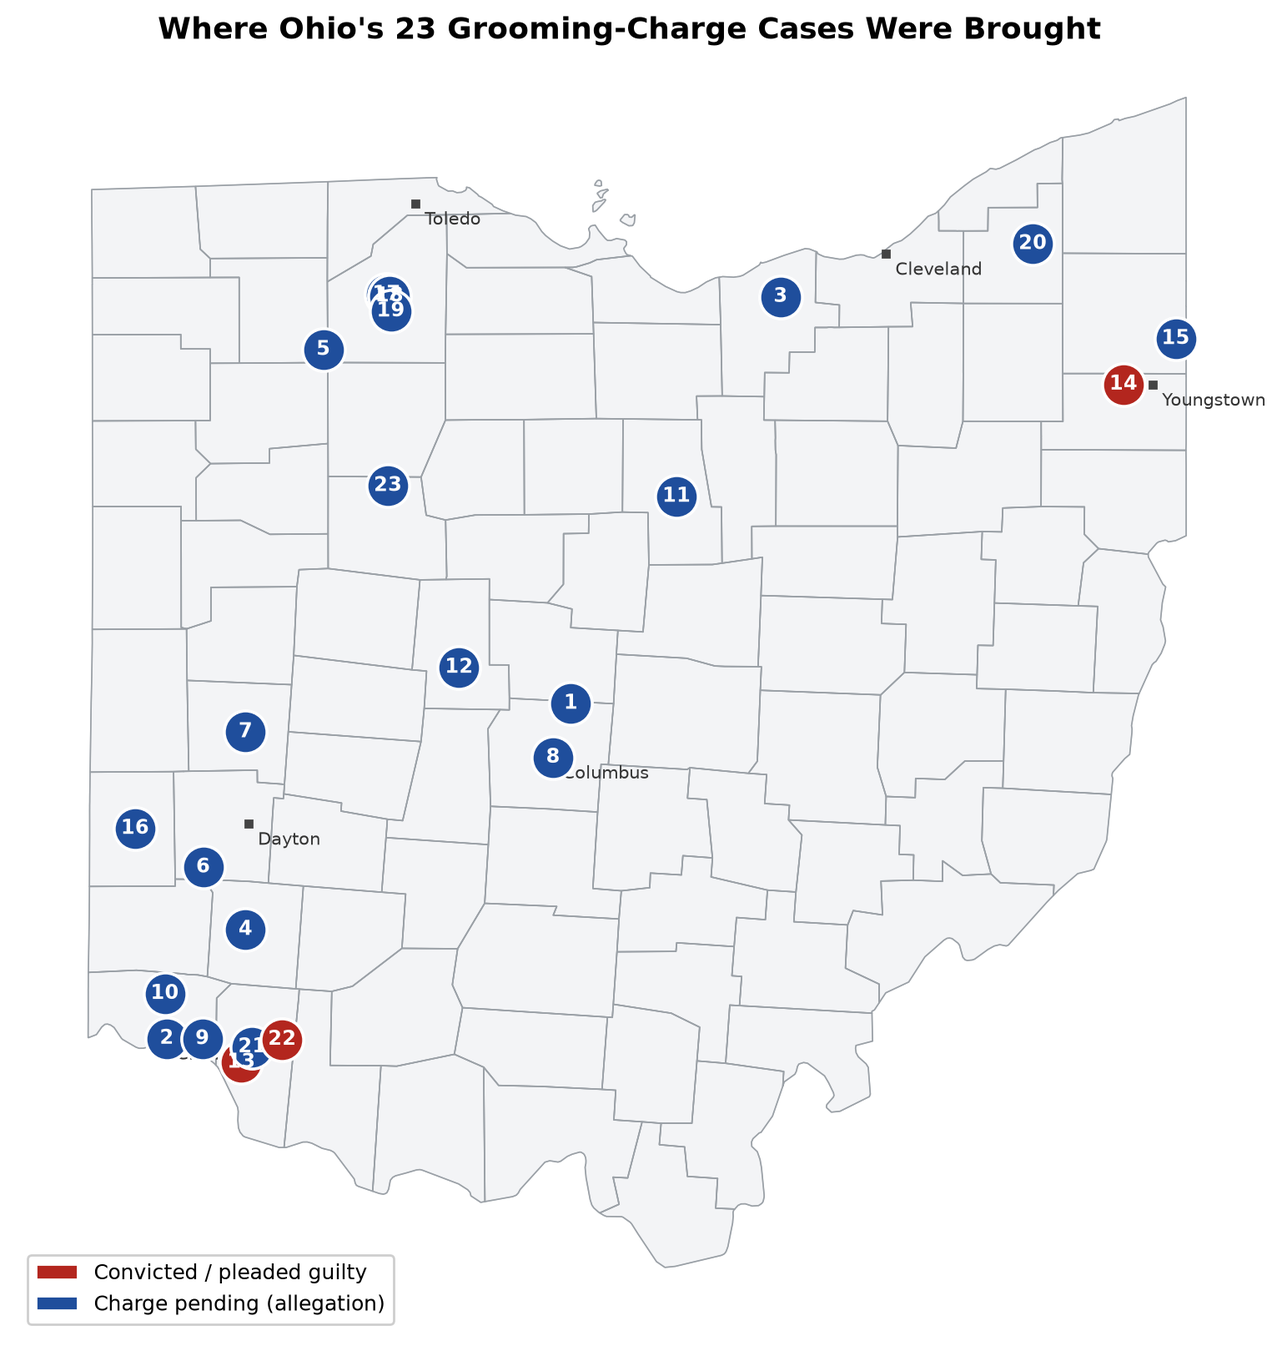
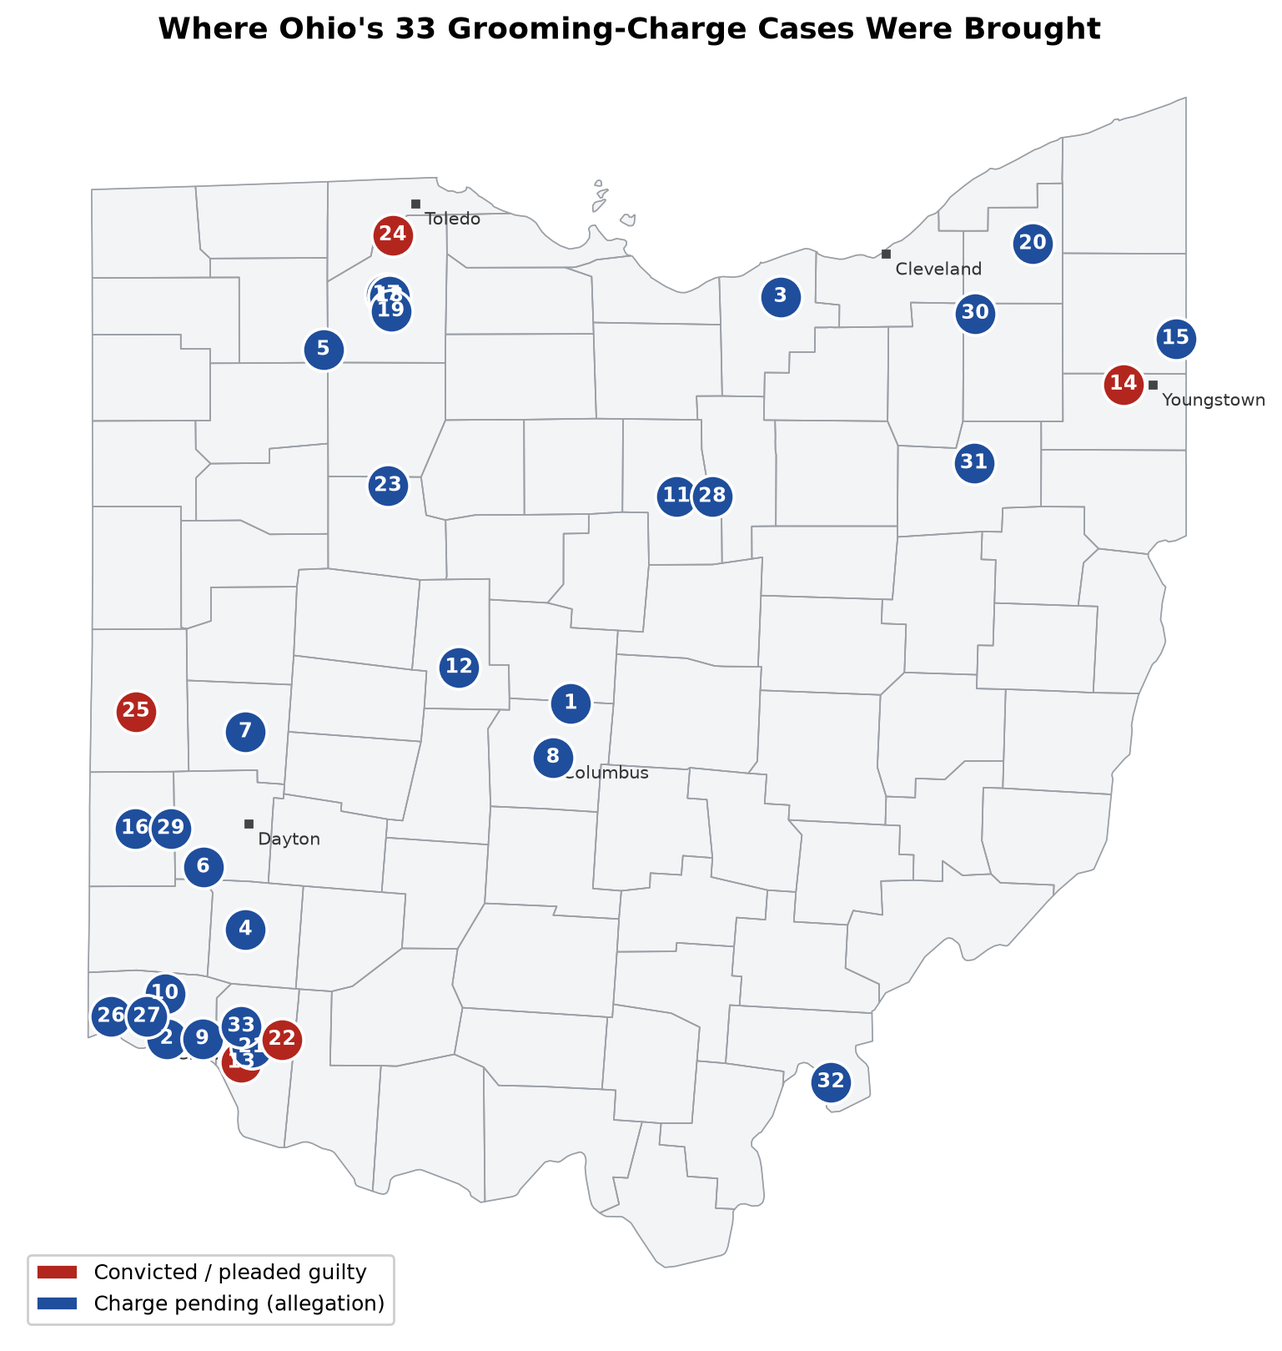
grooming: 10 verified cases from the first sweep (33 total); companion-charge stats data-driven
Abke (Wood, convicted 17-21 yrs), Shuttleworth (Darke, pleaded guilty), Michael and
Amanda Rowland (Hamilton), McCoy (Richland), Kimball (Preble, grooming-only, plea
to attempt), Moreno (Portage), Carlton (Stark), Hair (Meigs), Adams Jr. (Hamilton,
Jul 2025, second-earliest). Each row's source quotes the grooming count.

diff --git a/docs/grooming/index.html b/docs/grooming/index.html
@@ -8,8 +8,8 @@
 <meta name="description" content="Every Ohioan criminally charged under Ohio's new grooming law, ORC 2907.071, with a source on every case. Updated automatically.">
 <meta property="og:type" content="website">
 <meta property="og:url" content="https://chrisgraham.com/grooming">
-<meta property="og:title" content="Charged With Grooming in Ohio: 23 cases, every one sourced">
-<meta property="og:description" content="A running public record of every person charged under Ohio's grooming statute, ORC 2907.071. In all 23 cases the grooming count sits beside other child-abuse charges.">
+<meta property="og:title" content="Charged With Grooming in Ohio: 33 cases, every one sourced">
+<meta property="og:description" content="A running public record of every person charged under Ohio's grooming statute, ORC 2907.071. In 32 of 33 cases the grooming count sits beside other child-abuse charges.">
 <meta property="og:image" content="https://chrisgraham.com/grooming/img/ohio_map.png">
 <meta name="twitter:card" content="summary_large_image">
 <link rel="preconnect" href="https://fonts.googleapis.com">
@@ -78,35 +78,35 @@ td.n { text-align:right; white-space:nowrap; }
   <h1>Charged With Grooming in Ohio</h1>
   <p class="lede">Every Ohioan criminally charged under Ohio's new grooming law, <a href="https://codes.ohio.gov/ohio-revised-code/section-2907.071" rel="noopener">ORC 2907.071</a>, with a source on every case. Ohio made grooming its own crime with <a href="https://www.legislature.ohio.gov/legislation/135/hb322" rel="noopener">House Bill 322</a>, signed January 8, 2025 and in force April 9, 2025. Before that date nobody could be charged with grooming by name, so this page counts only people carrying the actual charge.</p>
   <div class="tiles">
-    <div class="tile"><p class="n">23</p><p class="l">Charged with grooming</p></div>
-    <div class="tile"><p class="n">4</p><p class="l">Convicted or pleaded</p></div>
-    <div class="tile"><p class="n">23 of 23</p><p class="l">Also face other child-abuse charges</p></div>
-    <div class="tile"><p class="n">19</p><p class="l">Open cases, presumed innocent</p></div>
+    <div class="tile"><p class="n">33</p><p class="l">Charged with grooming</p></div>
+    <div class="tile"><p class="n">7</p><p class="l">Convicted or pleaded</p></div>
+    <div class="tile"><p class="n">32 of 33</p><p class="l">Also face other child-abuse charges</p></div>
+    <div class="tile"><p class="n">26</p><p class="l">Open cases, presumed innocent</p></div>
   </div>
-  <p class="stamp">Page built 2026-10-10 15:10 UTC. Last news sweep 2026-10-10 15:08 UTC. The crawler runs every six hours. Count as of the latest confirmed case.</p>
+  <p class="stamp">Page built 2026-10-10 15:20 UTC. Last news sweep 2026-10-10 15:19 UTC. The crawler runs every six hours. Count as of the latest confirmed case.</p>
 </section>
 
 <section class="wrap" id="bigger-win">
-  <h2>Grooming has not stood alone once</h2>
-  <p>In all 23 cases the grooming count sits beside other child-abuse charges. The grooming statute is working as a door: the pattern-of-conduct charge gets investigators into a case that then surfaces the abuse itself. Grooming convictions matter. A grooming charge that delivers rape, sexual battery, or abuse-material convictions matters more, and that is the pattern so far.</p>
+  <h2>Grooming has stood alone only once</h2>
+  <p>In 32 of 33 cases the grooming count sits beside other child-abuse charges. The grooming statute is working as a door: the pattern-of-conduct charge gets investigators into a case that then surfaces the abuse itself. Grooming convictions matter. A grooming charge that delivers rape, sexual battery, or abuse-material convictions matters more, and that is the pattern so far.</p>
   <table>
     <tr><th>Companion charges beside grooming</th><th>Cases</th><th>Who</th></tr>
-    <tr><td>Hands-on abuse (rape, sexual battery, gross sexual imposition, unlawful sexual conduct)</td><td class="n">16</td><td>Behanan, Telford, Walter, Vanwey, Gonzales, Barton, Souza, Helmer, West, Bingle, Rava, Losoya, Smetana, Hauke, Blair, Rivera-Alejandro</td></tr>
-    <tr><td>Exploitation (abuse material, pandering, importuning, trafficking, hidden camera)</td><td class="n">6</td><td>Hartman, Grubbs, Vanderveen, Conley, Banovich, Barnes</td></tr>
+    <tr><td>Hands-on abuse (rape, sexual battery, gross sexual imposition, unlawful sexual conduct)</td><td class="n">21</td><td>Behanan, Telford, Walter, Vanwey, Gonzales, Barton, Souza, Helmer, West, Bingle, Rava, Losoya, Smetana, Hauke, Blair, Rivera-Alejandro, Rowland, Rowland, Carlton, Hair, Adams</td></tr>
+    <tr><td>Exploitation (abuse material, pandering, importuning, trafficking, hidden camera)</td><td class="n">10</td><td>Hartman, Grubbs, Vanderveen, Conley, Banovich, Barnes, Abke, Shuttleworth, McCoy, Moreno</td></tr>
     <tr><td>Unspecified child sex felonies</td><td class="n">1</td><td>Waldron</td></tr>
-    <tr><td>Grooming only</td><td class="n">0</td><td>none</td></tr>
+    <tr><td>Grooming only</td><td class="n">1</td><td>Kimball</td></tr>
   </table>
-  <p>Resolved so far: Christopher Helmer (convicted, 9 years); James West (pleaded guilty, sentencing nov 2026); Paul Bingle (pleaded guilty to other counts, 13 to 17 years); James Russell Blair (convicted, 20 years).</p>
+  <p>Resolved so far: Christopher Helmer (convicted, 9 years); James West (pleaded guilty, sentencing nov 2026); Paul Bingle (pleaded guilty to other counts, 13 to 17 years); James Russell Blair (convicted, 20 years); Brock Abke (convicted, 17 to 21 years); Justin D. Shuttleworth (pleaded guilty to grooming (misdemeanor), felonies dismissed, sentencing jun 2026); James R. Kimball (pleaded guilty to a reduced attempt count, 90 days (75 suspended), 2 years probation).</p>
 </section>
 
 <section class="wrap" id="map">
   <h2>Where the cases were brought</h2>
   <img class="map" src="img/ohio_map.png" alt="Map of Ohio counties with numbered arrest locations" width="1200" height="1100" loading="lazy">
-  <p class="cap">Numbers match the case list. Red is convicted or pleaded guilty. Blue is pending. Leading counties: Clermont (3), Hamilton (3), Wood (3), Franklin (2), Cuyahoga (1). The cluster in southwest Ohio most likely reflects which prosecutors moved fastest to use the new statute, not where grooming happens.</p>
+  <p class="cap">Numbers match the case list. Red is convicted or pleaded guilty. Blue is pending. Leading counties: Hamilton (6), Wood (4), Clermont (3), Franklin (2), Preble (2). The cluster in southwest Ohio most likely reflects which prosecutors moved fastest to use the new statute, not where grooming happens.</p>
 </section>
 
 <section class="wrap" id="cases">
-  <h2>The 23 cases</h2>
+  <h2>The 33 cases</h2>
   <p class="lede">One sentence each. Click a name to open the source story. Every open case is an allegation; the person is presumed innocent unless and until proven guilty.</p>
   <ul class="cases">
 <li class="case" id="case-1">
@@ -265,7 +265,7 @@ td.n { text-align:right; white-space:nowrap; }
   <div class="body">
     <h3><a href="https://dayton247now.com/news/local/preble-county-teacher-indicted-for-alleged-inappropriate-student-relationships-paul-bingle" rel="noopener">Paul Bingle</a>, 49 &middot; Preble County</h3>
     <p class="meta">2026 &middot; 4 grooming (dropped), sexual battery &middot; Pleaded guilty to other counts, 13 to 17 years</p>
-    <p class="badges"><span class="badge amber">Plea, grooming dropped</span> <span class="badge dark">+ hands-on abuse charged</span></p>
+    <p class="badges"><span class="badge amber">Plea on other counts</span> <span class="badge dark">+ hands-on abuse charged</span></p>
     <p class="sum">Paul Bingle, 49, a Preble County teacher, was indicted on four counts of grooming but pleaded guilty to sexual battery and unlawful sexual conduct after the grooming counts were dropped, receiving thirteen to seventeen years.</p>
   </div>
 </li>
@@ -337,6 +337,106 @@ td.n { text-align:right; white-space:nowrap; }
     <p class="meta">Jul 2026 &middot; 48 counts incl. grooming, rape, sexual battery &middot; Pending, $750,000 bond</p>
     <p class="badges"><span class="badge blue">Charged, pending</span> <span class="badge dark">+ hands-on abuse charged</span></p>
     <p class="sum">Carlos Rivera-Alejandro, 29, of Dunkirk in Hardin County, was indicted in July 2026 on a 48-count indictment including grooming, rape, and sexual battery, and is held on $750,000 bond.</p>
+  </div>
+</li>
+<li class="case" id="case-24">
+  <div class="num">24</div>
+  <div class="noimg"></div>
+  <div class="body">
+    <h3><a href="https://bgindependentmedia.org/former-fair-board-director-sentenced-to-17-years-for-pandering-and-grooming-minors/" rel="noopener">Brock Abke</a>, 31 &middot; Wood County</h3>
+    <p class="meta">Nov 2025 &middot; Grooming, 4 pandering obscenity involving a minor, 2 contributing to delinquency &middot; Convicted, 17 to 21 years</p>
+    <p class="badges"><span class="badge red">Convicted</span> <span class="badge dark">+ exploitation charged</span></p>
+    <p class="sum">Brock Abke, 31, of Perrysburg, a former Wood County Fair Board director, was indicted in November 2025 over three 4-H minors, pleaded guilty in May 2026 to grooming and pandering counts, and was sentenced July 9, 2026 to 17 to 21 years.</p>
+  </div>
+</li>
+<li class="case" id="case-25">
+  <div class="num">25</div>
+  <div class="noimg"></div>
+  <div class="body">
+    <h3><a href="https://www.dailyadvocate.com/2026/06/09/shuttleworth-pleads-guilty-to-grooming/" rel="noopener">Justin D. Shuttleworth</a> &middot; Darke County</h3>
+    <p class="meta">2026 &middot; Grooming, 3 illegal use of a minor in nudity-oriented material (dismissed) &middot; Pleaded guilty to grooming (misdemeanor), felonies dismissed, sentencing Jun 2026</p>
+    <p class="badges"><span class="badge red">Pleaded guilty</span> <span class="badge dark">+ exploitation charged</span></p>
+    <p class="sum">Justin D. Shuttleworth was indicted in Darke County on three nudity-material felonies and a grooming count for conduct from August to November 2025, and on June 8, 2026 pleaded guilty to grooming, a misdemeanor, with the felonies dismissed.</p>
+  </div>
+</li>
+<li class="case" id="case-26">
+  <div class="num">26</div>
+  <div class="noimg"></div>
+  <div class="body">
+    <h3><a href="https://www.wlwt.com/article/couple-arrested-after-grooming-14-year-old-for-sex/71648227" rel="noopener">Michael Rowland</a>, 53 &middot; Hamilton County</h3>
+    <p class="meta">Jun 2026 &middot; Grooming, rape, sexual battery, unlawful sexual conduct with a minor, importuning &middot; Pending, bond $410,000</p>
+    <p class="badges"><span class="badge blue">Charged, pending</span> <span class="badge dark">+ hands-on abuse charged</span></p>
+    <p class="sum">Michael Rowland, 53, of Whitewater Township, was arrested in June 2026 and is accused with his wife of grooming and sexually assaulting a 14-year-old; he faces rape, sexual battery, unlawful sexual conduct, importuning and grooming charges in Hamilton County.</p>
+  </div>
+</li>
+<li class="case" id="case-27">
+  <div class="num">27</div>
+  <div class="noimg"></div>
+  <div class="body">
+    <h3><a href="https://www.wlwt.com/article/couple-arrested-after-grooming-14-year-old-for-sex/71648227" rel="noopener">Amanda Rowland</a>, 41 &middot; Hamilton County</h3>
+    <p class="meta">Jun 2026 &middot; 2 grooming, rape, sexual battery, unlawful sexual conduct, importuning &middot; Pending, bond $420,000</p>
+    <p class="badges"><span class="badge blue">Charged, pending</span> <span class="badge dark">+ hands-on abuse charged</span></p>
+    <p class="sum">Amanda Rowland, 41, of Whitewater Township, was arrested in June 2026 and is accused with her husband of grooming and sexually assaulting a 14-year-old; she faces rape, sexual battery, unlawful sexual conduct, importuning and grooming charges in Hamilton County.</p>
+  </div>
+</li>
+<li class="case" id="case-28">
+  <div class="num">28</div>
+  <div class="noimg"></div>
+  <div class="body">
+    <h3><a href="https://www.richlandsource.com/2026/06/22/former-manci-inmate-eligible-for-death-penalty-if-convicted-of-killing-cellmate/" rel="noopener">Dustin Eugene McCoy</a>, 38 &middot; Richland County</h3>
+    <p class="meta">Jun 2026 &middot; Grooming, 3 pandering, 4 illegal use of a minor in nudity material, 2 disseminating &middot; Pending</p>
+    <p class="badges"><span class="badge blue">Charged, pending</span> <span class="badge dark">+ exploitation charged</span></p>
+    <p class="sum">Dustin Eugene McCoy, 38, of Akron, was indicted in Richland County in June 2026 on grooming, pandering, nudity-material and dissemination counts after allegedly traveling to Mansfield around Feb. 7 to meet a 15-year-old he contacted on social media.</p>
+  </div>
+</li>
+<li class="case" id="case-29">
+  <div class="num">29</div>
+  <div class="noimg"></div>
+  <div class="body">
+    <h3><a href="https://www.whio.com/news/local/bus-driver-learns-punishment-allegedly-grooming-student/FEKY4SKRCJCCFAKLIL7ZAECRTU/" rel="noopener">James R. Kimball</a>, 44 &middot; Preble County</h3>
+    <p class="meta">Oct 2025 &middot; Grooming (reduced to attempt, misdemeanor) &middot; Pleaded guilty to a reduced attempt count, 90 days (75 suspended), 2 years probation</p>
+    <p class="badges"><span class="badge amber">Plea on other counts</span> <span class="badge gray">grooming only</span></p>
+    <p class="sum">James R. Kimball, 44, a Twin Valley South bus driver, was charged in Eaton Municipal Court in October 2025 with grooming a 16-year-old student, pleaded guilty to a reduced misdemeanor attempt, and was sentenced in June 2026 to 90 days, 75 suspended.</p>
+  </div>
+</li>
+<li class="case" id="case-30">
+  <div class="num">30</div>
+  <div class="noimg"></div>
+  <div class="body">
+    <h3><a href="https://www.record-courier.com/story/news/crime/2026/05/19/aurora-man-charged-with-grooming-young-girls-soliciting-lewd-photos/90164945007/" rel="noopener">Carlos L. Moreno</a>, 40 &middot; Portage County</h3>
+    <p class="meta">May 2026 &middot; Grooming, 2 illegal use of a minor in nudity-oriented material, importuning, failure to register as sex offender &middot; Pending, pleaded not guilty, $50,000 bond</p>
+    <p class="badges"><span class="badge blue">Charged, pending</span> <span class="badge dark">+ exploitation charged</span></p>
+    <p class="sum">Carlos L. Moreno, 40, of Aurora, was indicted in Portage County in May 2026 on five counts including grooming, importuning and nudity-material charges for allegedly texting girls as young as 10 for sexual photos, and has pleaded not guilty.</p>
+  </div>
+</li>
+<li class="case" id="case-31">
+  <div class="num">31</div>
+  <div class="noimg"></div>
+  <div class="body">
+    <h3><a href="https://www.wkyc.com/article/news/crime/stark-county-youth-minister-michael-carlton-grooming-sexual-misconduct-teens-star-east-plain-township/95-aba08919-e237-44cb-8b31-80bc946ff227" rel="noopener">Michael Carlton</a> &middot; Stark County</h3>
+    <p class="meta">Sep 2026 &middot; Grooming (multiple counts), sexual imposition, assault, unlawful restraint &middot; Pending, $150,000 bond</p>
+    <p class="badges"><span class="badge blue">Charged, pending</span> <span class="badge dark">+ hands-on abuse charged</span></p>
+    <p class="sum">Michael Carlton, a former youth minister at The STAR in the East congregation in Plain Township, was charged in Stark County in September 2026 with multiple grooming counts plus sexual imposition, assault and unlawful restraint involving three young people.</p>
+  </div>
+</li>
+<li class="case" id="case-32">
+  <div class="num">32</div>
+  <div class="noimg"></div>
+  <div class="body">
+    <h3><a href="https://wchstv.com/news/local/man-accused-of-grooming-raping-minor-in-meigs-county-deputies-say" rel="noopener">Jonathon Hair</a>, 47 &middot; Meigs County</h3>
+    <p class="meta">Nov 2025 &middot; Grooming, multiple rape of a minor &middot; Pending, jailed, additional charges pending</p>
+    <p class="badges"><span class="badge blue">Charged, pending</span> <span class="badge dark">+ hands-on abuse charged</span></p>
+    <p class="sum">Jonathon Hair, 47, of Racine, was charged in November 2025 by the Meigs County Sheriff&#x27;s Office with multiple counts of rape of a minor and grooming violations, and was held at Southeast Regional Jail with more charges pending.</p>
+  </div>
+</li>
+<li class="case" id="case-33">
+  <div class="num">33</div>
+  <div class="noimg"></div>
+  <div class="body">
+    <h3><a href="https://www.hcpros.org/hamilton-county-prosecutor-connie-pillich-announces-indictment-in-rape-case-stemming-from-video-game-chat" rel="noopener">Chevalier Adams Jr.</a>, 39 &middot; Hamilton County</h3>
+    <p class="meta">Jul 2025 &middot; Grooming, 3 rape, kidnapping, importuning &middot; Pending, held in Hamilton County Justice Center</p>
+    <p class="badges"><span class="badge blue">Charged, pending</span> <span class="badge dark">+ hands-on abuse charged</span></p>
+    <p class="sum">Chevalier Adams Jr., 39, of Avondale, was indicted in Hamilton County in July 2025 on rape, kidnapping, importuning and grooming charges for allegedly meeting an 11-year-old on the game Zepeto and raping her July 20, and remains in jail.</p>
   </div>
 </li>
   </ul>

diff --git a/scripts/grooming/build.py b/scripts/grooming/build.py
@@ -30,6 +30,10 @@ resolved = [c for c in cases if c["resolved"]]
 hands = [c for c in cases if c["companion"] == "hands-on"]
 expl = [c for c in cases if c["companion"] == "exploitation"]
 unspec = [c for c in cases if c["companion"] == "unspecified"]
+alone = [c for c in cases if c["companion"] == "none"]
+with_comp = n - len(alone)
+def lastname(c):
+    p = c["name"].split(); return p[-2] if p[-1] in ("Jr.",) else p[-1]
 open_cases = [c for c in cases if not c["resolved"]]
 counties = {}
 for c in cases: counties[c["county"]] = counties.get(c["county"], 0) + 1
@@ -42,12 +46,13 @@ def badge_status(c):
     r = c["resolved"]
     if r == "convicted": return '<span class="badge red">Convicted</span>'
     if r == "pleaded guilty": return '<span class="badge red">Pleaded guilty</span>'
-    if r: return '<span class="badge amber">Plea, grooming dropped</span>'
+    if r: return '<span class="badge amber">Plea on other counts</span>'
     return '<span class="badge blue">Charged, pending</span>'
 def badge_comp(c):
     k = c["companion"]
     if k == "hands-on": return '<span class="badge dark">+ hands-on abuse charged</span>'
     if k == "exploitation": return '<span class="badge dark">+ exploitation charged</span>'
+    if k == "none": return '<span class="badge gray">grooming only</span>'
     return '<span class="badge dark">+ other child sex felonies</span>'
 
 def card(c):
@@ -102,7 +107,7 @@ page = f'''<!DOCTYPE html>
 <meta property="og:type" content="website">
 <meta property="og:url" content="https://chrisgraham.com/grooming">
 <meta property="og:title" content="Charged With Grooming in Ohio: {n} cases, every one sourced">
-<meta property="og:description" content="A running public record of every person charged under Ohio's grooming statute, ORC 2907.071. In all {n} cases the grooming count sits beside other child-abuse charges.">
+<meta property="og:description" content="A running public record of every person charged under Ohio's grooming statute, ORC 2907.071. In {with_comp} of {n} cases the grooming count sits beside other child-abuse charges.">
 <meta property="og:image" content="https://chrisgraham.com/grooming/img/ohio_map.png">
 <meta name="twitter:card" content="summary_large_image">
 <link rel="preconnect" href="https://fonts.googleapis.com">
@@ -173,21 +178,21 @@ td.n {{ text-align:right; white-space:nowrap; }}
   <div class="tiles">
     <div class="tile"><p class="n">{n}</p><p class="l">Charged with grooming</p></div>
     <div class="tile"><p class="n">{len(resolved)}</p><p class="l">Convicted or pleaded</p></div>
-    <div class="tile"><p class="n">{n} of {n}</p><p class="l">Also face other child-abuse charges</p></div>
+    <div class="tile"><p class="n">{with_comp} of {n}</p><p class="l">Also face other child-abuse charges</p></div>
     <div class="tile"><p class="n">{len(open_cases)}</p><p class="l">Open cases, presumed innocent</p></div>
   </div>
   <p class="stamp">Page built {built}.{(" Last news sweep " + last_sweep + ".") if last_sweep else ""} The crawler runs every six hours. Count as of the latest confirmed case.</p>
 </section>
 
 <section class="wrap" id="bigger-win">
-  <h2>Grooming has not stood alone once</h2>
-  <p>In all {n} cases the grooming count sits beside other child-abuse charges. The grooming statute is working as a door: the pattern-of-conduct charge gets investigators into a case that then surfaces the abuse itself. Grooming convictions matter. A grooming charge that delivers rape, sexual battery, or abuse-material convictions matters more, and that is the pattern so far.</p>
+  <h2>{"Grooming has not stood alone once" if not alone else ("Grooming has stood alone only once" if len(alone) == 1 else f"Grooming stands alone in only {len(alone)} cases")}</h2>
+  <p>In {with_comp} of {n} cases the grooming count sits beside other child-abuse charges. The grooming statute is working as a door: the pattern-of-conduct charge gets investigators into a case that then surfaces the abuse itself. Grooming convictions matter. A grooming charge that delivers rape, sexual battery, or abuse-material convictions matters more, and that is the pattern so far.</p>
   <table>
     <tr><th>Companion charges beside grooming</th><th>Cases</th><th>Who</th></tr>
-    <tr><td>Hands-on abuse (rape, sexual battery, gross sexual imposition, unlawful sexual conduct)</td><td class="n">{len(hands)}</td><td>{H(", ".join(c["name"].split()[-1] if c["name"].split()[-1] not in ("Jr.",) else c["name"].split()[-2] for c in hands))}</td></tr>
-    <tr><td>Exploitation (abuse material, pandering, importuning, trafficking, hidden camera)</td><td class="n">{len(expl)}</td><td>{H(", ".join(c["name"].split()[-1] if c["name"].split()[-1] not in ("Jr.",) else c["name"].split()[-2] for c in expl))}</td></tr>
+    <tr><td>Hands-on abuse (rape, sexual battery, gross sexual imposition, unlawful sexual conduct)</td><td class="n">{len(hands)}</td><td>{H(", ".join(lastname(c) for c in hands))}</td></tr>
+    <tr><td>Exploitation (abuse material, pandering, importuning, trafficking, hidden camera)</td><td class="n">{len(expl)}</td><td>{H(", ".join(lastname(c) for c in expl))}</td></tr>
     <tr><td>Unspecified child sex felonies</td><td class="n">{len(unspec)}</td><td>{H(", ".join(c["name"].split()[-1] for c in unspec))}</td></tr>
-    <tr><td>Grooming only</td><td class="n">{n - len(hands) - len(expl) - len(unspec)}</td><td>none</td></tr>
+    <tr><td>Grooming only</td><td class="n">{len(alone)}</td><td>{H(", ".join(lastname(c) for c in alone)) or "none"}</td></tr>
   </table>
   <p>Resolved so far: {H("; ".join(f'{c["name"]} ({c["status"].lower()})' for c in resolved))}.</p>
 </section>
